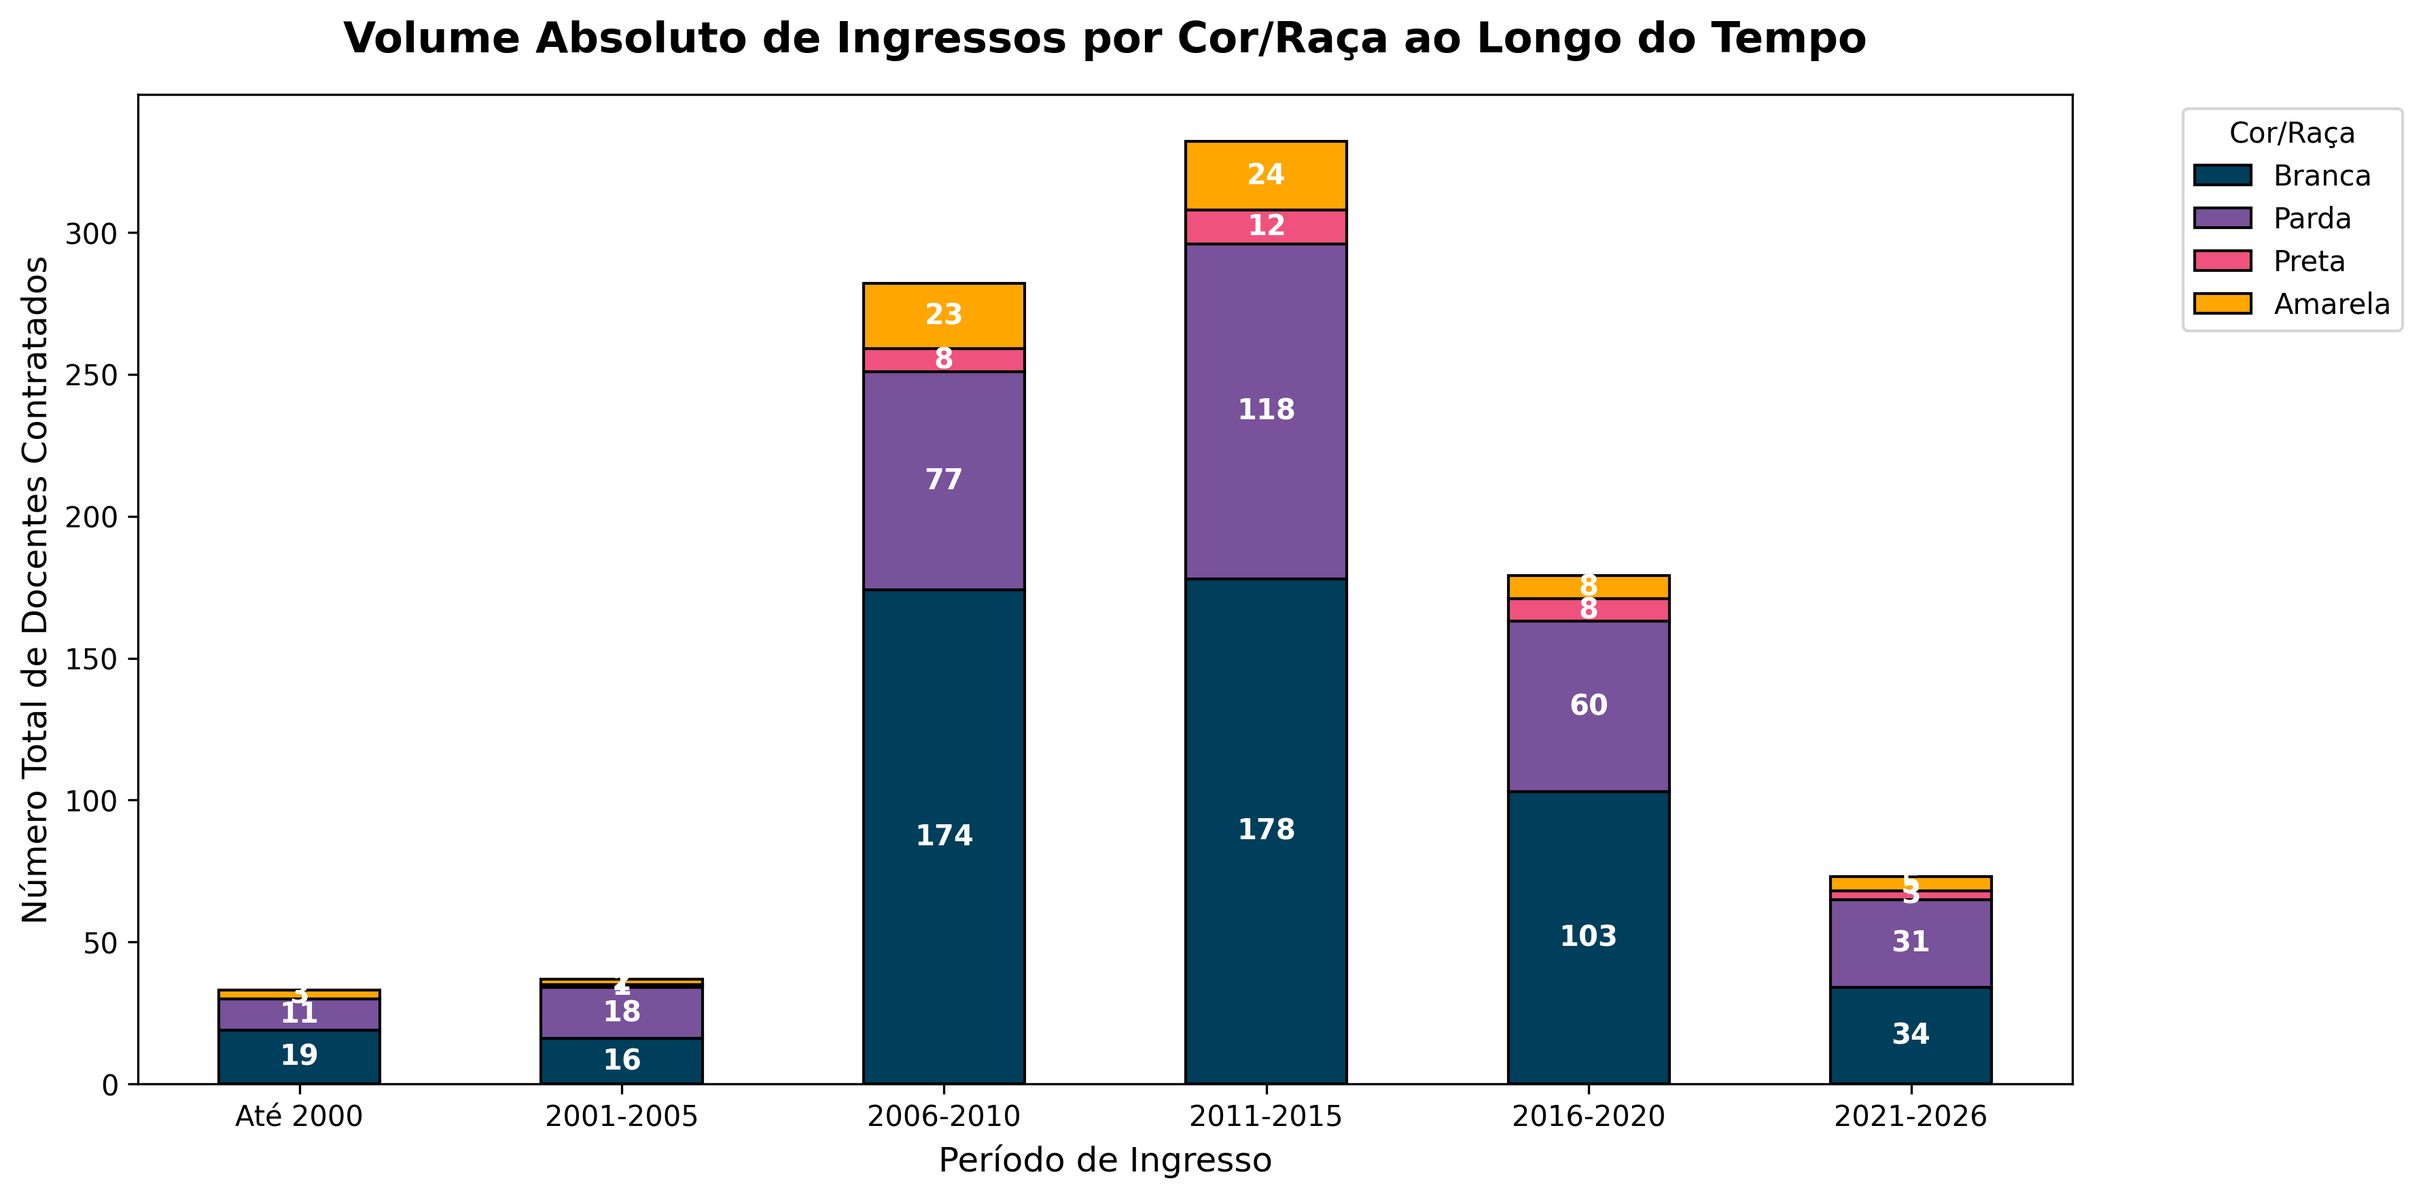
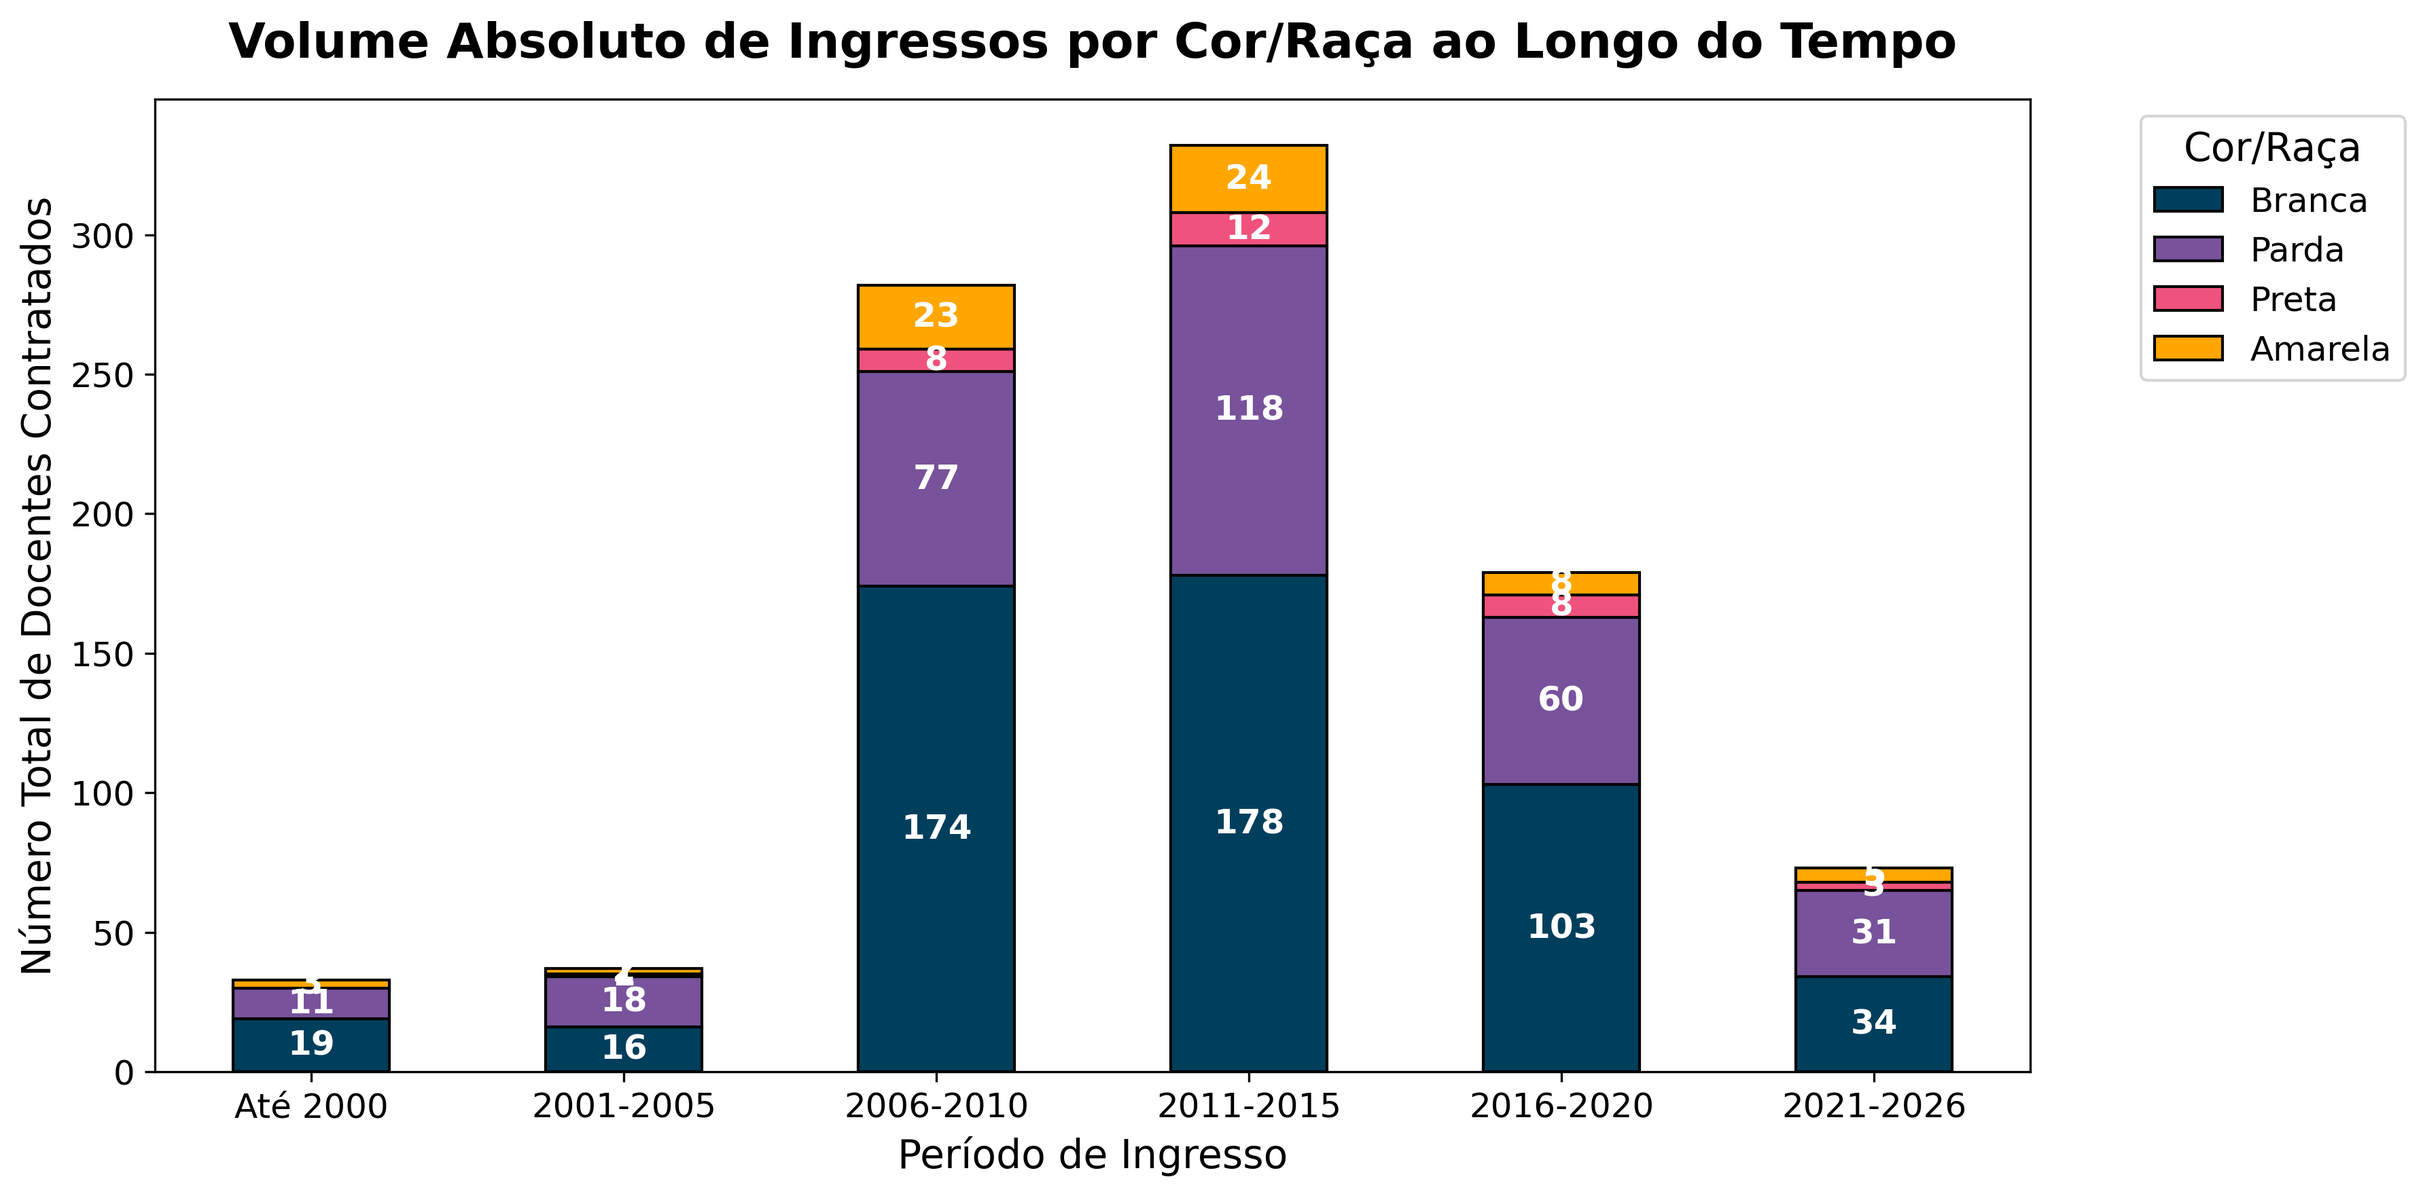
Versão final 1.0

Changed region(s): [[0.0311, 0.0, 0.8404, 0.9994], [0.0, 0.1562, 0.0623, 0.812], [0.8716, 0.0937, 0.9961, 0.3123]]

diff --git a/analise_dados.py b/analise_dados.py
@@ -7,6 +7,7 @@ import geopandas as gpd
 import matplotlib.pyplot as plt
 import matplotlib.patches as mpatches
 from sklearn.tree import DecisionTreeClassifier, plot_tree, export_text
+from scipy.stats import chisquare
 
 class AnaliseDadosTCC:
 
@@ -201,7 +202,16 @@ class AnaliseDadosTCC:
         self.carregar_dados()
         if self.df.empty: return
         self.analises_gerais_com_numeros()
-        #self.arvore_decisao_demografica()
+        self.gerar_graficos_analises()
+        self.analisar_cobertura_completa()
+        self.analises_gerais_com_porcentagem()
+        self.gerar_graficos_porcentagem()
+        self.gerar_mapa_composicao_regioes()
+        self.analisar_evolucao_historica_raca()
+        self.comparar_curriculos_todas_racas()
+        self.listar_campi_coletados()
+        self.gerar_mapa_composicao_censo2022()
+        self.teste_qui_quadrado()
         print("\nAnálise Concluída.")
 
     def gerar_graficos_analises(self):
@@ -549,7 +559,7 @@ class AnaliseDadosTCC:
                     # Fonte menor (9) e caixa mais fina (pad=0.3) com fundo preto bem suave (alpha=0.25)
                     ax.text(
                         centro_x, centro_y, texto,
-                        fontsize=9, fontweight='bold', color='white',
+                        fontsize=12, fontweight='bold', color='white',
                         ha='center', va='center',
                         bbox=dict(facecolor='black', alpha=0.25, edgecolor='none', boxstyle='round,pad=0.3')
                     )
@@ -590,10 +600,7 @@ class AnaliseDadosTCC:
         return None
 
     def analisar_evolucao_historica_raca(self):
-            print("\n" + "="*70)
-            print("EVOLUÇÃO HISTÓRICA DE INGRESSO (DE 5 EM 5 ANOS) POR COR/RAÇA")
-            print("="*70)
-            
+
             if self.df.empty:
                 self.carregar_dados()
 
@@ -608,12 +615,8 @@ class AnaliseDadosTCC:
             tab_abs = pd.crosstab(df_tempo['quinquenio'], df_tempo['raca']).reindex(columns=self.CATEGORIAS_RACA, fill_value=0)
             tab_pct = pd.crosstab(df_tempo['quinquenio'], df_tempo['raca'], normalize='index').reindex(columns=self.CATEGORIAS_RACA, fill_value=0) * 100
 
-            # =====================================================================
-            # 1. SALVAR AS TABELAS (PORCENTAGEM E ABSOLUTA)
-            # =====================================================================
             self.exibir_e_salvar_tabela(tab_pct.round(2), "tabela_evolucao_raca_pct", "PORCENTAGEM DE INGRESSO POR PERÍODO (%)")
             
-            # Cria uma cópia para adicionar a coluna "Total" sem atrapalhar o gráfico
             tab_abs_com_total = tab_abs.copy()
             tab_abs_com_total['Total do Período'] = tab_abs_com_total.sum(axis=1)
             self.exibir_e_salvar_tabela(tab_abs_com_total, "tabela_evolucao_raca_absoluta", "NÚMERO ABSOLUTO DE INGRESSANTES POR PERÍODO")
@@ -622,9 +625,9 @@ class AnaliseDadosTCC:
             cores_raca_dict = {'Branca': '#003f5c', 'Parda': '#78529b', 'Preta': '#ef537d', 'Amarela': '#ffa600'}
             cores_raca_lista = [cores_raca_dict.get(r, 'gray') for r in self.CATEGORIAS_RACA]
 
-            # =====================================================================
-            # 2. GRÁFICO DE PORCENTAGEM (LINHAS)
-            # =====================================================================
+            # ---------------------------------------------------------
+            # GRÁFICO 1: EVOLUÇÃO PERCENTUAL
+            # ---------------------------------------------------------
             fig1, ax1 = plt.subplots(figsize=(12, 6))
             
             for raca in self.CATEGORIAS_RACA:
@@ -633,19 +636,22 @@ class AnaliseDadosTCC:
                             label=raca, color=cores_raca_dict.get(raca, 'gray'))
                     
                     for i, valor in enumerate(tab_pct[raca]):
+                        # Aumentado para fontsize 12 e em negrito para melhor visualização
                         ax1.annotate(f'{valor:.1f}%', 
                                     (i, valor), 
                                     textcoords="offset points", 
                                     xytext=(0,10), 
-                                    ha='center', fontsize=9)
+                                    ha='center', fontsize=12, fontweight='bold')
 
-            ax1.set_title('Evolução do Perfil Racial (Ano de Ingresso nos IFs) - %', fontsize=15, fontweight='bold', pad=15)
-            ax1.set_xlabel('Período de Ingresso', fontsize=12)
-            ax1.set_ylabel('Porcentagem das Vagas no Período (%)', fontsize=12)
+            # Títulos e eixos aumentados para manter proporção com os novos labels
+            ax1.set_title('Evolução do Perfil Racial (Ano de Ingresso nos IFs) - %', fontsize=17, fontweight='bold', pad=15)
+            ax1.set_xlabel('Período de Ingresso', fontsize=14)
+            ax1.set_ylabel('Porcentagem das Vagas no Período (%)', fontsize=14)
+            ax1.tick_params(axis='both', which='major', labelsize=12)
             ax1.grid(True, linestyle='--', alpha=0.6)
             
             ax1.set_ylim(0, tab_pct.max().max() + 15) 
-            ax1.legend(title='Cor/Raça', bbox_to_anchor=(1.05, 1), loc='upper left')
+            ax1.legend(title='Cor/Raça', bbox_to_anchor=(1.05, 1), loc='upper left', fontsize=12, title_fontsize=14)
             
             plt.tight_layout()
             caminho_grafico_pct = os.path.join(self.pasta_resultados, 'grafico_evolucao_historica_pct.png')
@@ -654,23 +660,25 @@ class AnaliseDadosTCC:
             
             print(f" -> Gráfico de evolução (%) salvo em: {caminho_grafico_pct}")
 
-            # =====================================================================
-            # 3. GRÁFICO ABSOLUTO (BARRAS EMPILHADAS)
-            # =====================================================================
+            # ---------------------------------------------------------
+            # GRÁFICO 2: EVOLUÇÃO ABSOLUTA (BARRAS)
+            # ---------------------------------------------------------
             fig2, ax2 = plt.subplots(figsize=(12, 6))
             
             tab_abs.plot(kind='bar', stacked=True, ax=ax2, color=cores_raca_lista, edgecolor='black')
             
-            ax2.set_title('Volume Absoluto de Ingressos por Cor/Raça ao Longo do Tempo', fontsize=15, fontweight='bold', pad=15)
-            ax2.set_xlabel('Período de Ingresso', fontsize=12)
-            ax2.set_ylabel('Número Total de Docentes Contratados', fontsize=12)
-            ax2.tick_params(axis='x', labelrotation=0)
-            ax2.legend(title='Cor/Raça', bbox_to_anchor=(1.05, 1), loc='upper left')
+            # Títulos e eixos aumentados para manter proporção com os novos labels
+            ax2.set_title('Volume Absoluto de Ingressos por Cor/Raça ao Longo do Tempo', fontsize=17, fontweight='bold', pad=15)
+            ax2.set_xlabel('Período de Ingresso', fontsize=14)
+            ax2.set_ylabel('Número Total de Docentes Contratados', fontsize=14)
+            ax2.tick_params(axis='x', labelrotation=0, labelsize=12)
+            ax2.tick_params(axis='y', labelsize=12)
+            ax2.legend(title='Cor/Raça', bbox_to_anchor=(1.05, 1), loc='upper left', fontsize=12, title_fontsize=14)
             
-            # Adicionando os rótulos de dados absolutos dentro das barras
+            # Adicionando os rótulos de dados absolutos dentro das barras (Aumentado para fontsize 12)
             for c in ax2.containers:
                 labels_bar = [f'{int(v.get_height())}' if v.get_height() > 0 else '' for v in c]
-                ax2.bar_label(c, labels=labels_bar, label_type='center', color='white', weight='bold', fontsize=10)
+                ax2.bar_label(c, labels=labels_bar, label_type='center', color='white', weight='bold', fontsize=12)
 
             plt.tight_layout()
             caminho_grafico_abs = os.path.join(self.pasta_resultados, 'grafico_evolucao_absoluta.png')
@@ -785,15 +793,158 @@ class AnaliseDadosTCC:
             print(f"\n -> Lista de campi salva com sucesso em: {caminho_txt}\n")
         except Exception as e:
             print(f"\n -> Erro ao salvar o arquivo txt: {e}\n")
+
+    def gerar_mapa_composicao_censo2022(self):
             
-if __name__ == "__main__":
-    analise = AnaliseDadosTCC()
-    #analise.executar_todas()
-    #analise.gerar_graficos_analises()
-    #analise.analisar_cobertura_completa()
-    #analise.analises_gerais_com_porcentagem()
-    #analise.gerar_graficos_porcentagem()
-    #analise.gerar_mapa_composicao_regioes()
-    #analise.analisar_evolucao_historica_raca()
-    #analise.comparar_curriculos_todas_racas()
-    analise.listar_campi_coletados()
+            print("\nGerando mapa do Brasil com dados do Censo 2022 (baixando malha espacial)...")
+            
+            # Dados oficiais do Censo 2022 (IBGE - Tabela 9605) em porcentagem
+            dados_censo_2022 = {
+                'Norte': {'Brancos': 20.73, 'Pardos': 67.15, 'Pretos': 8.82, 'Amarelos': 0.17},
+                'Nordeste': {'Brancos': 26.66, 'Pardos': 59.57, 'Pretos': 13.04, 'Amarelos': 0.13},
+                'Centro-Oeste': {'Brancos': 37.04, 'Pardos': 52.40, 'Pretos': 9.15, 'Amarelos': 0.37},
+                'Sudeste': {'Brancos': 49.88, 'Pardos': 38.70, 'Pretos': 10.61, 'Amarelos': 0.67},
+                'Sul': {'Brancos': 72.58, 'Pardos': 21.71, 'Pretos': 5.03, 'Amarelos': 0.40}
+            }
+
+            # URL com o GeoJSON público dos Estados do Brasil
+            url_geojson = "https://raw.githubusercontent.com/codeforamerica/click_that_hood/master/public/data/brazil-states.geojson"
+            
+            try:
+                gdf = gpd.read_file(url_geojson)
+            except Exception as e:
+                print(f"Erro ao obter dados espaciais: {e}")
+                return
+
+            # Mapeamento de Estados para Regiões
+            mapa_regioes = {
+                'Acre': 'Norte', 'Amapá': 'Norte', 'Amazonas': 'Norte', 'Pará': 'Norte', 'Rondônia': 'Norte', 'Roraima': 'Norte', 'Tocantins': 'Norte',
+                'Alagoas': 'Nordeste', 'Bahia': 'Nordeste', 'Ceará': 'Nordeste', 'Maranhão': 'Nordeste', 'Paraíba': 'Nordeste', 'Pernambuco': 'Nordeste', 'Piauí': 'Nordeste', 'Rio Grande do Norte': 'Nordeste', 'Sergipe': 'Nordeste',
+                'Goiás': 'Centro-Oeste', 'Mato Grosso': 'Centro-Oeste', 'Mato Grosso do Sul': 'Centro-Oeste', 'Distrito Federal': 'Centro-Oeste',
+                'Espírito Santo': 'Sudeste', 'Minas Gerais': 'Sudeste', 'Rio de Janeiro': 'Sudeste', 'São Paulo': 'Sudeste',
+                'Paraná': 'Sul', 'Rio Grande do Sul': 'Sul', 'Santa Catarina': 'Sul'
+            }
+            
+            # Criar a coluna 'regiao' e mesclar os polígonos dos estados para formar a Região
+            gdf['regiao'] = gdf['name'].map(mapa_regioes)
+            gdf_regioes = gdf.dissolve(by='regiao').reset_index()
+
+            # Cores atualizadas conforme o mapa de referência
+            cores = {
+                'Norte': '#8BC53F',      
+                'Nordeste': '#25AAE2',    
+                'Centro-Oeste': '#FFC20F', 
+                'Sudeste': '#F16E22',      
+                'Sul': '#E31C23'          
+            }
+            gdf_regioes['cor'] = gdf_regioes['regiao'].map(cores)
+
+            # Plotagem da Imagem
+            fig, ax = plt.subplots(1, 1, figsize=(14, 12))
+            ax.axis('off') 
+            
+            ax.set_title("Composição de Cor/Raça da População por Região (Censo 2022)", 
+                         fontsize=18, fontweight='bold', pad=15)
+
+            # Plota os polígonos usando a paleta de cores criada
+            gdf_regioes.plot(ax=ax, color=gdf_regioes['cor'], edgecolor='white', linewidth=1.5)
+
+            # Adicionar os textos sobrepostos às regiões
+            for idx, row in gdf_regioes.iterrows():
+                regiao = row['regiao']
+                
+                # Pega o centróide (meio geográfico) da região
+                centro_x = row['geometry'].centroid.x
+                centro_y = row['geometry'].centroid.y
+                
+                # Ajustes finos de coordenada
+                if regiao == 'Norte': 
+                    centro_x -= 1.0; centro_y += 1.5
+                elif regiao == 'Nordeste': 
+                    centro_x += 1.5; centro_y -= 1.0
+                elif regiao == 'Sul': 
+                    # Subtrair no eixo X move a caixa mais para a ESQUERDA
+                    centro_x -= 0.5; centro_y -= 1.5
+                
+                if regiao in dados_censo_2022:
+                    pct = dados_censo_2022[regiao]
+                    
+                    texto = (
+                        f"{pct['Brancos']:.2f}% Brancos\n"
+                        f"{pct['Pardos']:.2f}% Pardos\n"
+                        f"{pct['Pretos']:.2f}% Pretos\n"
+                        f"{pct['Amarelos']:.2f}% Amarelos"
+                    )
+                    
+                    # Renderização do texto (fontsize aumentado para 11)
+                    ax.text(
+                        centro_x, centro_y, texto,
+                        fontsize=11, fontweight='bold', color='white',
+                        ha='center', va='center',
+                        bbox=dict(facecolor='black', alpha=0.25, edgecolor='none', boxstyle='round,pad=0.4')
+                    )
+
+            # --- CRIANDO A LEGENDA ---
+            legend_patches = [mpatches.Patch(color=cor, label=reg) for reg, cor in cores.items()]
+            
+            ax.legend(handles=legend_patches, title="Regiões do Brasil", 
+                      loc='lower left', bbox_to_anchor=(0.05, 0.05),
+                      fontsize=12, title_fontsize=14, frameon=True, shadow=True)
+
+            plt.tight_layout()
+            
+            caminho_mapa = os.path.join(self.pasta_resultados, "mapa_raca_regioes_censo2022.png")
+            plt.savefig(caminho_mapa, dpi=300, bbox_inches='tight')
+            plt.close()
+            
+            print(f" -> Mapa salvo com sucesso em: {caminho_mapa}")   
+
+    def teste_qui_quadrado(self):
+
+            # 1. Dados Observados (Sua coleta)
+            # Ordem das colunas: [Branca, Parda, Preta, Amarela]
+            obs_data = {
+                'Centro-Oeste': [51, 30, 2, 6],
+                'Nordeste': [176, 149, 20, 33],
+                'Norte': [43, 48, 4, 15],
+                'Sudeste': [83, 40, 4, 7],
+                'Sul': [177, 58, 2, 7]
+            }
+
+            # 2. Dados Esperados (Percentuais IBGE / 100)
+            # A soma não dá 100% pois exclui indígenas e não declarados
+            ibge_perc = {
+                'Centro-Oeste': [0.3704, 0.5240, 0.0915, 0.0037],
+                'Nordeste': [0.2666, 0.5957, 0.1304, 0.0013],
+                'Norte': [0.2073, 0.6715, 0.0882, 0.0017],
+                'Sudeste': [0.4988, 0.3870, 0.1061, 0.0067],
+                'Sul': [0.7258, 0.2171, 0.0503, 0.0040]
+            }
+
+            resultados = []
+
+            for regiao, observados in obs_data.items():
+                total_docentes = sum(observados)
+                
+                # NORMALIZAÇÃO: Garante que a soma das 4 proporções seja exatamente 1.0
+                soma_perc = sum(ibge_perc[regiao])
+                perc_normalizado = [p / soma_perc for p in ibge_perc[regiao]]
+                
+                # Calcula a frequência esperada com os percentuais normalizados
+                esperados = [total_docentes * p for p in perc_normalizado]
+                
+                # Aplica o Teste Qui-Quadrado
+                chi2_stat, p_val = chisquare(f_obs=observados, f_exp=esperados)
+                
+                resultados.append({
+                    'Região': regiao,
+                    'N_Docentes': total_docentes,
+                    'Qui-Quadrado (X2)': round(chi2_stat, 2),
+                    'P-Valor': p_val,
+                    'Significativo (p < 0.05)': p_val < 0.05
+                })
+
+            # Exibindo os resultados
+            df_resultados = pd.DataFrame(resultados)
+            print(df_resultados)
+

diff --git a/main.py b/main.py
@@ -72,6 +72,3 @@ def main():
         if scrapper:
             print("Fechando o navegador (fallback de erro)...")
             scrapper.fechar()
-
-if __name__ == "__main__":
-    main()
